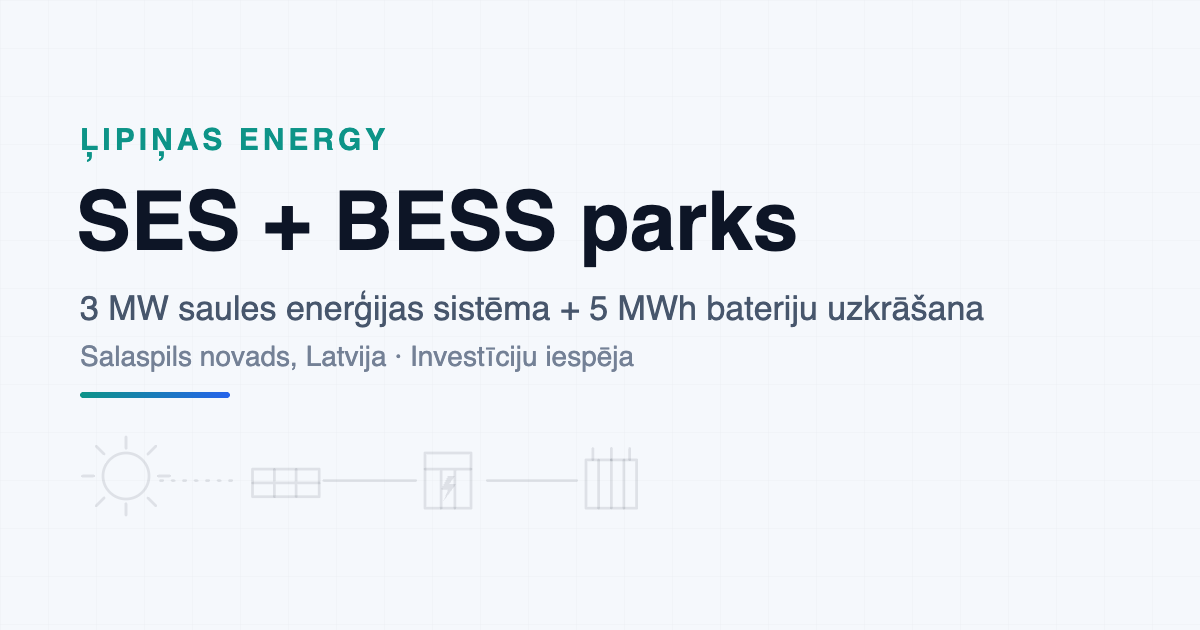
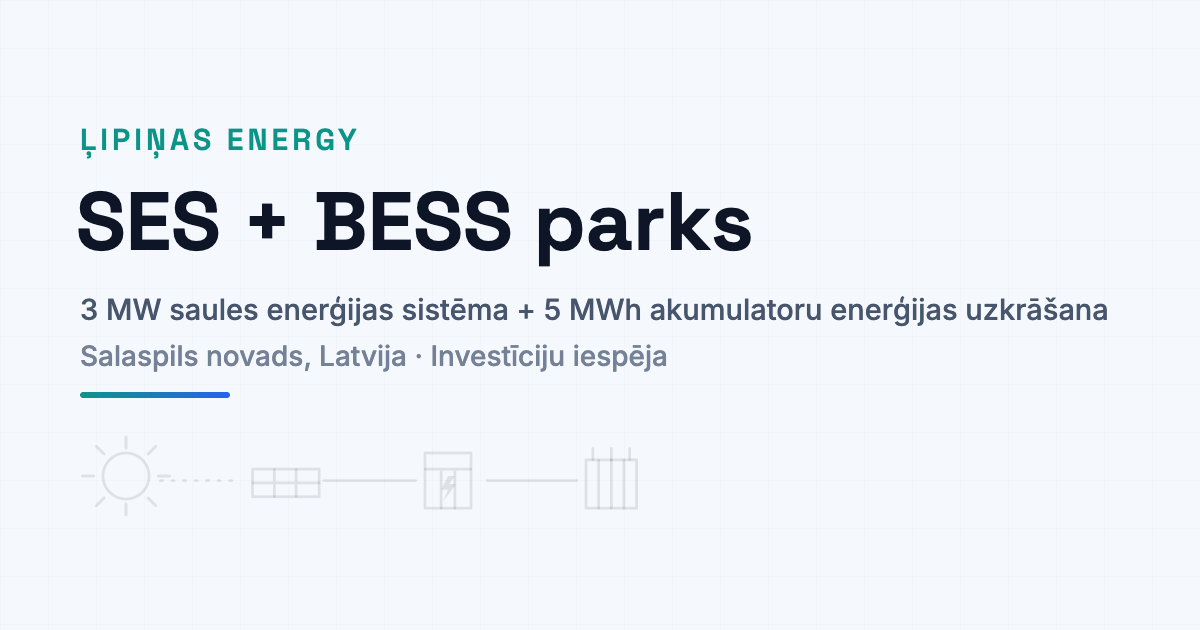
gp_lead LV statiskais = vārdnīca; kirilicas fonts; spec vērtības pēc valodas; og-cover termins
- LV gp_lead statiskais HTML saskaņots ar I18N (vārdnīca noteicošā)
- Space Grotesk (bez kirilicas) font-stack: 'Space Grotesk','Inter',sans-serif (index.html, privacy.html);
  RU lapā vairs nav Helvetica/Times rezerves fontu
- build.py SPEC: spec/gp vērtības pēc valodas — EN decimālpunkts un „4,304”/„3,077 kW”;
  RU „3 МВт (пик)”, „МВт·ч”, „га”, „кВт”, „мм”; LV/DE/RU tūkstošu atdalītājs ar U+00A0; skaitļi nemainīti
- og-cover.svg/png: „bateriju uzkrāšana” → „akumulatoru enerģijas uzkrāšana” (29 px, ietilpst);
  PNG pārzīmēts ar headless Chrome un vietnes self-host fontiem
- Helvija lūgums 2026-10-07; python3 build.py

Changed region(s): [[0.0617, 0.4524, 0.925, 0.6032], [0.0617, 0.3016, 0.6783, 0.4222], [0.0617, 0.181, 0.3392, 0.2413]]

diff --git a/ru/index.html b/ru/index.html
@@ -160,7 +160,7 @@
   *{box-sizing:border-box;margin:0;padding:0}
   html{scroll-behavior:smooth}
   body{font-family:'Inter',system-ui,sans-serif;background:var(--bg);color:var(--ink);line-height:1.6;-webkit-font-smoothing:antialiased;overflow-x:hidden}
-  h1,h2,h3,.stat-num{font-family:'Space Grotesk',sans-serif;letter-spacing:-.01em;line-height:1.1}
+  h1,h2,h3,.stat-num{font-family:'Space Grotesk','Inter',sans-serif;letter-spacing:-.01em;line-height:1.1}
   a{color:inherit;text-decoration:none}
   .wrap{max-width:var(--maxw);margin:0 auto;padding:0 24px}
   .accent{color:var(--acc)}.accent-2{color:var(--acc-2)}
@@ -178,7 +178,7 @@
 
   nav{position:sticky;top:0;z-index:1000;backdrop-filter:blur(14px);background:rgba(245,248,252,.82);border-bottom:1px solid var(--panel-brd)}
   nav .wrap{display:flex;align-items:center;justify-content:space-between;height:64px;gap:16px}
-  .brand{display:flex;align-items:center;gap:10px;font-family:'Space Grotesk';font-weight:600;font-size:15px;white-space:nowrap}
+  .brand{display:flex;align-items:center;gap:10px;font-family:'Space Grotesk','Inter',sans-serif;font-weight:600;font-size:15px;white-space:nowrap}
   .brand .dot{width:10px;height:10px;border-radius:50%;background:var(--acc);box-shadow:0 0 12px var(--acc)}
   .nav-links{display:flex;gap:26px;font-size:14px;color:var(--muted)}
   .nav-links a:hover{color:var(--ink)}
@@ -201,7 +201,7 @@
   /* Enerģijas plūsmas josla (gaiša) */
   .story{position:relative;z-index:2;width:100%;background:linear-gradient(180deg,#f5f8fc,#e7edf6);border-top:1px solid #d6ddeb;border-bottom:1px solid #d6ddeb;margin-top:52px;padding:22px 0 18px;overflow:hidden}
   .story .wrap{position:relative;z-index:2}
-  .flow-title{font-family:'Space Grotesk',sans-serif;font-weight:600;color:#0f1b3a;font-size:13px;letter-spacing:.08em;text-transform:uppercase;margin-bottom:8px;text-align:center;opacity:.7}
+  .flow-title{font-family:'Space Grotesk','Inter',sans-serif;font-weight:600;color:#0f1b3a;font-size:13px;letter-spacing:.08em;text-transform:uppercase;margin-bottom:8px;text-align:center;opacity:.7}
   .flow-svg{width:100%;height:auto;display:block;max-width:1040px;margin:0 auto}
   .flow-svg text{font-family:'Inter',sans-serif;font-weight:600;font-size:15px;fill:#0f1b3a}
   @media(max-width:760px){.flow-svg text{font-size:19px}.flow-title{font-size:12px}}
@@ -250,11 +250,11 @@
   .spec-row{display:flex;justify-content:space-between;gap:16px;padding:16px 24px;border-bottom:1px solid var(--panel-brd);font-size:15px}
   .spec-row:last-child{border-bottom:0}
   .spec-row span{color:var(--muted)}
-  .spec-row b{font-family:'Space Grotesk';font-weight:600;font-size:16px;text-align:right}
+  .spec-row b{font-family:'Space Grotesk','Inter',sans-serif;font-weight:600;font-size:16px;text-align:right}
 
   .fin{border:1px solid var(--panel-brd);border-radius:22px;background:linear-gradient(160deg,rgba(62,224,138,.06),rgba(56,189,248,.05));padding:46px;text-align:center;overflow:hidden}
   .fin-grid{display:flex;justify-content:center;gap:20px;margin:32px 0 22px}
-  .fin-item .n{font-family:'Space Grotesk';font-size:30px;font-weight:600;color:var(--acc)}
+  .fin-item .n{font-family:'Space Grotesk','Inter',sans-serif;font-size:30px;font-weight:600;color:var(--acc)}
   .fin-item .l{font-size:13px;color:var(--faint);margin-top:4px}
   @media(max-width:760px){.fin-grid{gap:16px}.fin{padding:32px 22px}}
   .finnote{font-size:13px;color:var(--faint);margin-bottom:20px}
@@ -272,7 +272,7 @@
   @media(max-width:860px){.map-wrap{grid-template-columns:1fr}}
   .map-facts{border:1px solid var(--panel-brd);border-radius:var(--radius);background:var(--panel);padding:26px;display:flex;flex-direction:column;justify-content:center;gap:18px}
   .map-fact .k{font-size:12px;letter-spacing:.1em;text-transform:uppercase;color:var(--faint)}
-  .map-fact .v{font-family:'Space Grotesk';font-weight:600;font-size:17px;margin-top:3px}
+  .map-fact .v{font-family:'Space Grotesk','Inter',sans-serif;font-weight:600;font-size:17px;margin-top:3px}
 
   .timeline{display:grid;grid-template-columns:repeat(5,1fr);gap:0}
   .step{padding:24px 20px 0;position:relative;min-width:0;overflow-wrap:break-word;hyphens:auto}
@@ -310,7 +310,7 @@
   .gp-src{font-size:12px;color:var(--faint);margin-top:6px;text-align:right}
   .gp-grid{display:grid;grid-template-columns:1fr 1fr;gap:24px;margin-top:24px;align-items:start}
   @media(max-width:860px){.gp-grid{grid-template-columns:1fr}}
-  .gp-h3{font-family:'Space Grotesk',sans-serif;font-size:18px;font-weight:600;margin-bottom:12px}
+  .gp-h3{font-family:'Space Grotesk','Inter',sans-serif;font-size:18px;font-weight:600;margin-bottom:12px}
   .gp-card{border:1px solid var(--panel-brd);border-radius:var(--radius);background:var(--panel);padding:24px 26px}
   .gp-card p{color:var(--muted);font-size:15px}
   .gp-card ul{margin:10px 0 0 18px;color:var(--ink);font-size:15px}
@@ -480,12 +480,12 @@
       </div>
     </div>
     <div class="spec">
-      <div class="spec-row"><span data-i18n="spec_pv_cap">Установленная мощность СЭС</span><b>3 MWp</b></div>
-      <div class="spec-row"><span data-i18n="spec_bess_cap">Ёмкость BESS</span><b>5 MWh</b></div>
-      <div class="spec-row"><span data-i18n="spec_grid_shared">Общая выдача в сеть (СЭС + BESS)</span><b>2,5&nbsp;MW</b></div>
+      <div class="spec-row"><span data-i18n="spec_pv_cap">Установленная мощность СЭС</span><b>3 МВт (пик)</b></div>
+      <div class="spec-row"><span data-i18n="spec_bess_cap">Ёмкость BESS</span><b>5 МВт·ч</b></div>
+      <div class="spec-row"><span data-i18n="spec_grid_shared">Общая выдача в сеть (СЭС + BESS)</span><b>2,5 МВт</b></div>
       <div class="spec-row"><span data-i18n="spec_eff">КПД накопителя</span><b data-i18n="spec_eff_v">90% round-trip</b></div>
-      <div class="spec-row"><span data-i18n="spec_avail">Доступная ёмкость</span><b>4,5 MWh</b></div>
-      <div class="spec-row"><span data-i18n="spec_area">Площадь участка</span><b>4,2 ha</b></div>
+      <div class="spec-row"><span data-i18n="spec_avail">Доступная ёмкость</span><b>4,5 МВт·ч</b></div>
+      <div class="spec-row"><span data-i18n="spec_area">Площадь участка</span><b>4,2 га</b></div>
       <div class="spec-row"><span data-i18n="spec_loc">Расположение</span><b data-i18n="spec_loc_v">Саласпилсская вол.</b></div>
     </div>
   </div>
@@ -600,9 +600,9 @@
       <div>
         <h3 class="gp-h3" data-i18n="gp_specs_h">Технические данные</h3>
         <div class="spec">
-          <div class="spec-row"><span data-i18n="gp_s2">Количество модулей</span><b>4 304</b></div>
-          <div class="spec-row"><span data-i18n="gp_s3">Мощность PV (DC)</span><b>3 077 kW</b></div>
-          <div class="spec-row"><span data-i18n="gp_s4">Размер модуля</span><b>2384 × 1303 mm</b></div>
+          <div class="spec-row"><span data-i18n="gp_s2">Количество модулей</span><b>4 304</b></div>
+          <div class="spec-row"><span data-i18n="gp_s3">Мощность PV (DC)</span><b>3 077 кВт</b></div>
+          <div class="spec-row"><span data-i18n="gp_s4">Размер модуля</span><b>2384 × 1303 мм</b></div>
           <div class="spec-row"><span data-i18n="gp_s5">Конфигурация трекеров</span><b>98×40 · 12×32 PV</b></div>
           <div class="spec-row"><span data-i18n="gp_s6">Ориентация</span><b data-i18n="gp_s6_v">Восток–запад</b></div>
         </div>

diff --git a/index.html b/index.html
@@ -125,7 +125,7 @@
   *{box-sizing:border-box;margin:0;padding:0}
   html{scroll-behavior:smooth}
   body{font-family:'Inter',system-ui,sans-serif;background:var(--bg);color:var(--ink);line-height:1.6;-webkit-font-smoothing:antialiased;overflow-x:hidden}
-  h1,h2,h3,.stat-num{font-family:'Space Grotesk',sans-serif;letter-spacing:-.01em;line-height:1.1}
+  h1,h2,h3,.stat-num{font-family:'Space Grotesk','Inter',sans-serif;letter-spacing:-.01em;line-height:1.1}
   a{color:inherit;text-decoration:none}
   .wrap{max-width:var(--maxw);margin:0 auto;padding:0 24px}
   .accent{color:var(--acc)}.accent-2{color:var(--acc-2)}
@@ -143,7 +143,7 @@
 
   nav{position:sticky;top:0;z-index:1000;backdrop-filter:blur(14px);background:rgba(245,248,252,.82);border-bottom:1px solid var(--panel-brd)}
   nav .wrap{display:flex;align-items:center;justify-content:space-between;height:64px;gap:16px}
-  .brand{display:flex;align-items:center;gap:10px;font-family:'Space Grotesk';font-weight:600;font-size:15px;white-space:nowrap}
+  .brand{display:flex;align-items:center;gap:10px;font-family:'Space Grotesk','Inter',sans-serif;font-weight:600;font-size:15px;white-space:nowrap}
   .brand .dot{width:10px;height:10px;border-radius:50%;background:var(--acc);box-shadow:0 0 12px var(--acc)}
   .nav-links{display:flex;gap:26px;font-size:14px;color:var(--muted)}
   .nav-links a:hover{color:var(--ink)}
@@ -166,7 +166,7 @@
   /* Enerģijas plūsmas josla (gaiša) */
   .story{position:relative;z-index:2;width:100%;background:linear-gradient(180deg,#f5f8fc,#e7edf6);border-top:1px solid #d6ddeb;border-bottom:1px solid #d6ddeb;margin-top:52px;padding:22px 0 18px;overflow:hidden}
   .story .wrap{position:relative;z-index:2}
-  .flow-title{font-family:'Space Grotesk',sans-serif;font-weight:600;color:#0f1b3a;font-size:13px;letter-spacing:.08em;text-transform:uppercase;margin-bottom:8px;text-align:center;opacity:.7}
+  .flow-title{font-family:'Space Grotesk','Inter',sans-serif;font-weight:600;color:#0f1b3a;font-size:13px;letter-spacing:.08em;text-transform:uppercase;margin-bottom:8px;text-align:center;opacity:.7}
   .flow-svg{width:100%;height:auto;display:block;max-width:1040px;margin:0 auto}
   .flow-svg text{font-family:'Inter',sans-serif;font-weight:600;font-size:15px;fill:#0f1b3a}
   @media(max-width:760px){.flow-svg text{font-size:19px}.flow-title{font-size:12px}}
@@ -215,11 +215,11 @@
   .spec-row{display:flex;justify-content:space-between;gap:16px;padding:16px 24px;border-bottom:1px solid var(--panel-brd);font-size:15px}
   .spec-row:last-child{border-bottom:0}
   .spec-row span{color:var(--muted)}
-  .spec-row b{font-family:'Space Grotesk';font-weight:600;font-size:16px;text-align:right}
+  .spec-row b{font-family:'Space Grotesk','Inter',sans-serif;font-weight:600;font-size:16px;text-align:right}
 
   .fin{border:1px solid var(--panel-brd);border-radius:22px;background:linear-gradient(160deg,rgba(62,224,138,.06),rgba(56,189,248,.05));padding:46px;text-align:center;overflow:hidden}
   .fin-grid{display:flex;justify-content:center;gap:20px;margin:32px 0 22px}
-  .fin-item .n{font-family:'Space Grotesk';font-size:30px;font-weight:600;color:var(--acc)}
+  .fin-item .n{font-family:'Space Grotesk','Inter',sans-serif;font-size:30px;font-weight:600;color:var(--acc)}
   .fin-item .l{font-size:13px;color:var(--faint);margin-top:4px}
   @media(max-width:760px){.fin-grid{gap:16px}.fin{padding:32px 22px}}
   .finnote{font-size:13px;color:var(--faint);margin-bottom:20px}
@@ -237,7 +237,7 @@
   @media(max-width:860px){.map-wrap{grid-template-columns:1fr}}
   .map-facts{border:1px solid var(--panel-brd);border-radius:var(--radius);background:var(--panel);padding:26px;display:flex;flex-direction:column;justify-content:center;gap:18px}
   .map-fact .k{font-size:12px;letter-spacing:.1em;text-transform:uppercase;color:var(--faint)}
-  .map-fact .v{font-family:'Space Grotesk';font-weight:600;font-size:17px;margin-top:3px}
+  .map-fact .v{font-family:'Space Grotesk','Inter',sans-serif;font-weight:600;font-size:17px;margin-top:3px}
 
   .timeline{display:grid;grid-template-columns:repeat(5,1fr);gap:0}
   .step{padding:24px 20px 0;position:relative;min-width:0;overflow-wrap:break-word;hyphens:auto}
@@ -275,7 +275,7 @@
   .gp-src{font-size:12px;color:var(--faint);margin-top:6px;text-align:right}
   .gp-grid{display:grid;grid-template-columns:1fr 1fr;gap:24px;margin-top:24px;align-items:start}
   @media(max-width:860px){.gp-grid{grid-template-columns:1fr}}
-  .gp-h3{font-family:'Space Grotesk',sans-serif;font-size:18px;font-weight:600;margin-bottom:12px}
+  .gp-h3{font-family:'Space Grotesk','Inter',sans-serif;font-size:18px;font-weight:600;margin-bottom:12px}
   .gp-card{border:1px solid var(--panel-brd);border-radius:var(--radius);background:var(--panel);padding:24px 26px}
   .gp-card p{color:var(--muted);font-size:15px}
   .gp-card ul{margin:10px 0 0 18px;color:var(--ink);font-size:15px}
@@ -447,7 +447,7 @@
     <div class="spec">
       <div class="spec-row"><span data-i18n="spec_pv_cap">PV uzstādītā jauda</span><b>3 MWp</b></div>
       <div class="spec-row"><span data-i18n="spec_bess_cap">BESS ietilpība</span><b>5 MWh</b></div>
-      <div class="spec-row"><span data-i18n="spec_grid_shared">Kopīgā jauda tīklā (PV + BESS)</span><b>2,5&nbsp;MW</b></div>
+      <div class="spec-row"><span data-i18n="spec_grid_shared">Kopīgā jauda tīklā (PV + BESS)</span><b>2,5 MW</b></div>
       <div class="spec-row"><span data-i18n="spec_eff">Akumulatora efektivitāte</span><b data-i18n="spec_eff_v">90% round-trip</b></div>
       <div class="spec-row"><span data-i18n="spec_avail">Pieejamā ietilpība</span><b>4,5 MWh</b></div>
       <div class="spec-row"><span data-i18n="spec_area">Zemes platība</span><b>4,2 ha</b></div>
@@ -504,7 +504,7 @@
   <div class="wrap">
     <div class="eyebrow" data-i18n="gp_eyebrow">Situācijas plāns</div>
     <h2 data-i18n="gp_h2">Izkārtojums un attīstības potenciāls</h2>
-    <p class="sec-lead" data-i18n="gp_lead">Vienkāršots situācijas plāns. SES un BESS aizņem daļu teritorijas, bet ~2 ha paliek brīvi turpmākai attīstībai.</p>
+    <p class="sec-lead" data-i18n="gp_lead">Vienkāršots situācijas plāns. SES un BESS aizņem daļu teritorijas; atlikušajos ~2 ha iespējama turpmāka attīstība virzienos, kuriem nepieciešama lēta elektroenerģija — datu centrs, ūdeņraža ražošana.</p>
     <div class="gp-map">
       <svg class="gp-svg" viewBox="0 0 770 640" fill="none" aria-hidden="true">
         <defs>
@@ -565,9 +565,9 @@
       <div>
         <h3 class="gp-h3" data-i18n="gp_specs_h">Tehniskie dati</h3>
         <div class="spec">
-          <div class="spec-row"><span data-i18n="gp_s2">Moduļu skaits</span><b>4 304</b></div>
-          <div class="spec-row"><span data-i18n="gp_s3">PV jauda (DC)</span><b>3 077 kW</b></div>
-          <div class="spec-row"><span data-i18n="gp_s4">Moduļa izmērs</span><b>2384 × 1303 mm</b></div>
+          <div class="spec-row"><span data-i18n="gp_s2">Moduļu skaits</span><b>4 304</b></div>
+          <div class="spec-row"><span data-i18n="gp_s3">PV jauda (DC)</span><b>3 077 kW</b></div>
+          <div class="spec-row"><span data-i18n="gp_s4">Moduļa izmērs</span><b>2384 × 1303 mm</b></div>
           <div class="spec-row"><span data-i18n="gp_s5">Trekeru konfigurācija</span><b>98×40 · 12×32 PV</b></div>
           <div class="spec-row"><span data-i18n="gp_s6">Orientācija</span><b data-i18n="gp_s6_v">Austrumi–rietumi</b></div>
         </div>

diff --git a/en/index.html b/en/index.html
@@ -160,7 +160,7 @@
   *{box-sizing:border-box;margin:0;padding:0}
   html{scroll-behavior:smooth}
   body{font-family:'Inter',system-ui,sans-serif;background:var(--bg);color:var(--ink);line-height:1.6;-webkit-font-smoothing:antialiased;overflow-x:hidden}
-  h1,h2,h3,.stat-num{font-family:'Space Grotesk',sans-serif;letter-spacing:-.01em;line-height:1.1}
+  h1,h2,h3,.stat-num{font-family:'Space Grotesk','Inter',sans-serif;letter-spacing:-.01em;line-height:1.1}
   a{color:inherit;text-decoration:none}
   .wrap{max-width:var(--maxw);margin:0 auto;padding:0 24px}
   .accent{color:var(--acc)}.accent-2{color:var(--acc-2)}
@@ -178,7 +178,7 @@
 
   nav{position:sticky;top:0;z-index:1000;backdrop-filter:blur(14px);background:rgba(245,248,252,.82);border-bottom:1px solid var(--panel-brd)}
   nav .wrap{display:flex;align-items:center;justify-content:space-between;height:64px;gap:16px}
-  .brand{display:flex;align-items:center;gap:10px;font-family:'Space Grotesk';font-weight:600;font-size:15px;white-space:nowrap}
+  .brand{display:flex;align-items:center;gap:10px;font-family:'Space Grotesk','Inter',sans-serif;font-weight:600;font-size:15px;white-space:nowrap}
   .brand .dot{width:10px;height:10px;border-radius:50%;background:var(--acc);box-shadow:0 0 12px var(--acc)}
   .nav-links{display:flex;gap:26px;font-size:14px;color:var(--muted)}
   .nav-links a:hover{color:var(--ink)}
@@ -201,7 +201,7 @@
   /* Enerģijas plūsmas josla (gaiša) */
   .story{position:relative;z-index:2;width:100%;background:linear-gradient(180deg,#f5f8fc,#e7edf6);border-top:1px solid #d6ddeb;border-bottom:1px solid #d6ddeb;margin-top:52px;padding:22px 0 18px;overflow:hidden}
   .story .wrap{position:relative;z-index:2}
-  .flow-title{font-family:'Space Grotesk',sans-serif;font-weight:600;color:#0f1b3a;font-size:13px;letter-spacing:.08em;text-transform:uppercase;margin-bottom:8px;text-align:center;opacity:.7}
+  .flow-title{font-family:'Space Grotesk','Inter',sans-serif;font-weight:600;color:#0f1b3a;font-size:13px;letter-spacing:.08em;text-transform:uppercase;margin-bottom:8px;text-align:center;opacity:.7}
   .flow-svg{width:100%;height:auto;display:block;max-width:1040px;margin:0 auto}
   .flow-svg text{font-family:'Inter',sans-serif;font-weight:600;font-size:15px;fill:#0f1b3a}
   @media(max-width:760px){.flow-svg text{font-size:19px}.flow-title{font-size:12px}}
@@ -250,11 +250,11 @@
   .spec-row{display:flex;justify-content:space-between;gap:16px;padding:16px 24px;border-bottom:1px solid var(--panel-brd);font-size:15px}
   .spec-row:last-child{border-bottom:0}
   .spec-row span{color:var(--muted)}
-  .spec-row b{font-family:'Space Grotesk';font-weight:600;font-size:16px;text-align:right}
+  .spec-row b{font-family:'Space Grotesk','Inter',sans-serif;font-weight:600;font-size:16px;text-align:right}
 
   .fin{border:1px solid var(--panel-brd);border-radius:22px;background:linear-gradient(160deg,rgba(62,224,138,.06),rgba(56,189,248,.05));padding:46px;text-align:center;overflow:hidden}
   .fin-grid{display:flex;justify-content:center;gap:20px;margin:32px 0 22px}
-  .fin-item .n{font-family:'Space Grotesk';font-size:30px;font-weight:600;color:var(--acc)}
+  .fin-item .n{font-family:'Space Grotesk','Inter',sans-serif;font-size:30px;font-weight:600;color:var(--acc)}
   .fin-item .l{font-size:13px;color:var(--faint);margin-top:4px}
   @media(max-width:760px){.fin-grid{gap:16px}.fin{padding:32px 22px}}
   .finnote{font-size:13px;color:var(--faint);margin-bottom:20px}
@@ -272,7 +272,7 @@
   @media(max-width:860px){.map-wrap{grid-template-columns:1fr}}
   .map-facts{border:1px solid var(--panel-brd);border-radius:var(--radius);background:var(--panel);padding:26px;display:flex;flex-direction:column;justify-content:center;gap:18px}
   .map-fact .k{font-size:12px;letter-spacing:.1em;text-transform:uppercase;color:var(--faint)}
-  .map-fact .v{font-family:'Space Grotesk';font-weight:600;font-size:17px;margin-top:3px}
+  .map-fact .v{font-family:'Space Grotesk','Inter',sans-serif;font-weight:600;font-size:17px;margin-top:3px}
 
   .timeline{display:grid;grid-template-columns:repeat(5,1fr);gap:0}
   .step{padding:24px 20px 0;position:relative;min-width:0;overflow-wrap:break-word;hyphens:auto}
@@ -310,7 +310,7 @@
   .gp-src{font-size:12px;color:var(--faint);margin-top:6px;text-align:right}
   .gp-grid{display:grid;grid-template-columns:1fr 1fr;gap:24px;margin-top:24px;align-items:start}
   @media(max-width:860px){.gp-grid{grid-template-columns:1fr}}
-  .gp-h3{font-family:'Space Grotesk',sans-serif;font-size:18px;font-weight:600;margin-bottom:12px}
+  .gp-h3{font-family:'Space Grotesk','Inter',sans-serif;font-size:18px;font-weight:600;margin-bottom:12px}
   .gp-card{border:1px solid var(--panel-brd);border-radius:var(--radius);background:var(--panel);padding:24px 26px}
   .gp-card p{color:var(--muted);font-size:15px}
   .gp-card ul{margin:10px 0 0 18px;color:var(--ink);font-size:15px}
@@ -482,10 +482,10 @@
     <div class="spec">
       <div class="spec-row"><span data-i18n="spec_pv_cap">PV installed capacity</span><b>3 MWp</b></div>
       <div class="spec-row"><span data-i18n="spec_bess_cap">BESS capacity</span><b>5 MWh</b></div>
-      <div class="spec-row"><span data-i18n="spec_grid_shared">Shared grid export power (PV + BESS)</span><b>2,5&nbsp;MW</b></div>
+      <div class="spec-row"><span data-i18n="spec_grid_shared">Shared grid export power (PV + BESS)</span><b>2.5 MW</b></div>
       <div class="spec-row"><span data-i18n="spec_eff">Battery efficiency</span><b data-i18n="spec_eff_v">90% round-trip</b></div>
-      <div class="spec-row"><span data-i18n="spec_avail">Available capacity</span><b>4,5 MWh</b></div>
-      <div class="spec-row"><span data-i18n="spec_area">Land area</span><b>4,2 ha</b></div>
+      <div class="spec-row"><span data-i18n="spec_avail">Available capacity</span><b>4.5 MWh</b></div>
+      <div class="spec-row"><span data-i18n="spec_area">Land area</span><b>4.2 ha</b></div>
       <div class="spec-row"><span data-i18n="spec_loc">Location</span><b data-i18n="spec_loc_v">Salaspils parish</b></div>
     </div>
   </div>
@@ -600,9 +600,9 @@
       <div>
         <h3 class="gp-h3" data-i18n="gp_specs_h">Technical data</h3>
         <div class="spec">
-          <div class="spec-row"><span data-i18n="gp_s2">Number of modules</span><b>4 304</b></div>
-          <div class="spec-row"><span data-i18n="gp_s3">PV power (DC)</span><b>3 077 kW</b></div>
-          <div class="spec-row"><span data-i18n="gp_s4">Module size</span><b>2384 × 1303 mm</b></div>
+          <div class="spec-row"><span data-i18n="gp_s2">Number of modules</span><b>4,304</b></div>
+          <div class="spec-row"><span data-i18n="gp_s3">PV power (DC)</span><b>3,077 kW</b></div>
+          <div class="spec-row"><span data-i18n="gp_s4">Module size</span><b>2384 × 1303 mm</b></div>
           <div class="spec-row"><span data-i18n="gp_s5">Tracker configuration</span><b>98×40 · 12×32 PV</b></div>
           <div class="spec-row"><span data-i18n="gp_s6">Orientation</span><b data-i18n="gp_s6_v">East–West</b></div>
         </div>

diff --git a/de/index.html b/de/index.html
@@ -160,7 +160,7 @@
   *{box-sizing:border-box;margin:0;padding:0}
   html{scroll-behavior:smooth}
   body{font-family:'Inter',system-ui,sans-serif;background:var(--bg);color:var(--ink);line-height:1.6;-webkit-font-smoothing:antialiased;overflow-x:hidden}
-  h1,h2,h3,.stat-num{font-family:'Space Grotesk',sans-serif;letter-spacing:-.01em;line-height:1.1}
+  h1,h2,h3,.stat-num{font-family:'Space Grotesk','Inter',sans-serif;letter-spacing:-.01em;line-height:1.1}
   a{color:inherit;text-decoration:none}
   .wrap{max-width:var(--maxw);margin:0 auto;padding:0 24px}
   .accent{color:var(--acc)}.accent-2{color:var(--acc-2)}
@@ -178,7 +178,7 @@
 
   nav{position:sticky;top:0;z-index:1000;backdrop-filter:blur(14px);background:rgba(245,248,252,.82);border-bottom:1px solid var(--panel-brd)}
   nav .wrap{display:flex;align-items:center;justify-content:space-between;height:64px;gap:16px}
-  .brand{display:flex;align-items:center;gap:10px;font-family:'Space Grotesk';font-weight:600;font-size:15px;white-space:nowrap}
+  .brand{display:flex;align-items:center;gap:10px;font-family:'Space Grotesk','Inter',sans-serif;font-weight:600;font-size:15px;white-space:nowrap}
   .brand .dot{width:10px;height:10px;border-radius:50%;background:var(--acc);box-shadow:0 0 12px var(--acc)}
   .nav-links{display:flex;gap:26px;font-size:14px;color:var(--muted)}
   .nav-links a:hover{color:var(--ink)}
@@ -201,7 +201,7 @@
   /* Enerģijas plūsmas josla (gaiša) */
   .story{position:relative;z-index:2;width:100%;background:linear-gradient(180deg,#f5f8fc,#e7edf6);border-top:1px solid #d6ddeb;border-bottom:1px solid #d6ddeb;margin-top:52px;padding:22px 0 18px;overflow:hidden}
   .story .wrap{position:relative;z-index:2}
-  .flow-title{font-family:'Space Grotesk',sans-serif;font-weight:600;color:#0f1b3a;font-size:13px;letter-spacing:.08em;text-transform:uppercase;margin-bottom:8px;text-align:center;opacity:.7}
+  .flow-title{font-family:'Space Grotesk','Inter',sans-serif;font-weight:600;color:#0f1b3a;font-size:13px;letter-spacing:.08em;text-transform:uppercase;margin-bottom:8px;text-align:center;opacity:.7}
   .flow-svg{width:100%;height:auto;display:block;max-width:1040px;margin:0 auto}
   .flow-svg text{font-family:'Inter',sans-serif;font-weight:600;font-size:15px;fill:#0f1b3a}
   @media(max-width:760px){.flow-svg text{font-size:19px}.flow-title{font-size:12px}}
@@ -250,11 +250,11 @@
   .spec-row{display:flex;justify-content:space-between;gap:16px;padding:16px 24px;border-bottom:1px solid var(--panel-brd);font-size:15px}
   .spec-row:last-child{border-bottom:0}
   .spec-row span{color:var(--muted)}
-  .spec-row b{font-family:'Space Grotesk';font-weight:600;font-size:16px;text-align:right}
+  .spec-row b{font-family:'Space Grotesk','Inter',sans-serif;font-weight:600;font-size:16px;text-align:right}
 
   .fin{border:1px solid var(--panel-brd);border-radius:22px;background:linear-gradient(160deg,rgba(62,224,138,.06),rgba(56,189,248,.05));padding:46px;text-align:center;overflow:hidden}
   .fin-grid{display:flex;justify-content:center;gap:20px;margin:32px 0 22px}
-  .fin-item .n{font-family:'Space Grotesk';font-size:30px;font-weight:600;color:var(--acc)}
+  .fin-item .n{font-family:'Space Grotesk','Inter',sans-serif;font-size:30px;font-weight:600;color:var(--acc)}
   .fin-item .l{font-size:13px;color:var(--faint);margin-top:4px}
   @media(max-width:760px){.fin-grid{gap:16px}.fin{padding:32px 22px}}
   .finnote{font-size:13px;color:var(--faint);margin-bottom:20px}
@@ -272,7 +272,7 @@
   @media(max-width:860px){.map-wrap{grid-template-columns:1fr}}
   .map-facts{border:1px solid var(--panel-brd);border-radius:var(--radius);background:var(--panel);padding:26px;display:flex;flex-direction:column;justify-content:center;gap:18px}
   .map-fact .k{font-size:12px;letter-spacing:.1em;text-transform:uppercase;color:var(--faint)}
-  .map-fact .v{font-family:'Space Grotesk';font-weight:600;font-size:17px;margin-top:3px}
+  .map-fact .v{font-family:'Space Grotesk','Inter',sans-serif;font-weight:600;font-size:17px;margin-top:3px}
 
   .timeline{display:grid;grid-template-columns:repeat(5,1fr);gap:0}
   .step{padding:24px 20px 0;position:relative;min-width:0;overflow-wrap:break-word;hyphens:auto}
@@ -310,7 +310,7 @@
   .gp-src{font-size:12px;color:var(--faint);margin-top:6px;text-align:right}
   .gp-grid{display:grid;grid-template-columns:1fr 1fr;gap:24px;margin-top:24px;align-items:start}
   @media(max-width:860px){.gp-grid{grid-template-columns:1fr}}
-  .gp-h3{font-family:'Space Grotesk',sans-serif;font-size:18px;font-weight:600;margin-bottom:12px}
+  .gp-h3{font-family:'Space Grotesk','Inter',sans-serif;font-size:18px;font-weight:600;margin-bottom:12px}
   .gp-card{border:1px solid var(--panel-brd);border-radius:var(--radius);background:var(--panel);padding:24px 26px}
   .gp-card p{color:var(--muted);font-size:15px}
   .gp-card ul{margin:10px 0 0 18px;color:var(--ink);font-size:15px}
@@ -482,7 +482,7 @@
     <div class="spec">
       <div class="spec-row"><span data-i18n="spec_pv_cap">Installierte PV-Leistung</span><b>3 MWp</b></div>
       <div class="spec-row"><span data-i18n="spec_bess_cap">BESS-Kapazität</span><b>5 MWh</b></div>
-      <div class="spec-row"><span data-i18n="spec_grid_shared">Gemeinsame Netzeinspeiseleistung (PV + BESS)</span><b>2,5&nbsp;MW</b></div>
+      <div class="spec-row"><span data-i18n="spec_grid_shared">Gemeinsame Netzeinspeiseleistung (PV + BESS)</span><b>2,5 MW</b></div>
       <div class="spec-row"><span data-i18n="spec_eff">Batteriewirkungsgrad</span><b data-i18n="spec_eff_v">90 % Round-Trip</b></div>
       <div class="spec-row"><span data-i18n="spec_avail">Verfügbare Kapazität</span><b>4,5 MWh</b></div>
       <div class="spec-row"><span data-i18n="spec_area">Grundstücksfläche</span><b>4,2 ha</b></div>
@@ -600,9 +600,9 @@
       <div>
         <h3 class="gp-h3" data-i18n="gp_specs_h">Technische Daten</h3>
         <div class="spec">
-          <div class="spec-row"><span data-i18n="gp_s2">Anzahl der Module</span><b>4 304</b></div>
-          <div class="spec-row"><span data-i18n="gp_s3">PV-Leistung (DC)</span><b>3 077 kW</b></div>
-          <div class="spec-row"><span data-i18n="gp_s4">Modulgröße</span><b>2384 × 1303 mm</b></div>
+          <div class="spec-row"><span data-i18n="gp_s2">Anzahl der Module</span><b>4 304</b></div>
+          <div class="spec-row"><span data-i18n="gp_s3">PV-Leistung (DC)</span><b>3 077 kW</b></div>
+          <div class="spec-row"><span data-i18n="gp_s4">Modulgröße</span><b>2384 × 1303 mm</b></div>
           <div class="spec-row"><span data-i18n="gp_s5">Tracker-Konfiguration</span><b>98×40 · 12×32 PV</b></div>
           <div class="spec-row"><span data-i18n="gp_s6">Ausrichtung</span><b data-i18n="gp_s6_v">Ost–West</b></div>
         </div>

diff --git a/privacy.html b/privacy.html
@@ -19,10 +19,10 @@
   *{box-sizing:border-box;margin:0;padding:0}
   body{font-family:'Inter',system-ui,sans-serif;background:var(--bg);color:var(--ink);line-height:1.7;-webkit-font-smoothing:antialiased}
   a{color:var(--acc);text-decoration:none}a:hover{text-decoration:underline}
-  h1,h2{font-family:'Space Grotesk',sans-serif;letter-spacing:-.01em;line-height:1.15}
+  h1,h2{font-family:'Space Grotesk','Inter',sans-serif;letter-spacing:-.01em;line-height:1.15}
   nav{position:sticky;top:0;z-index:10;background:rgba(245,248,252,.85);backdrop-filter:blur(12px);border-bottom:1px solid var(--panel-brd)}
   nav .in{max-width:820px;margin:0 auto;padding:14px 24px;display:flex;align-items:center;justify-content:space-between;gap:16px}
-  .brand{display:flex;align-items:center;gap:9px;font-family:'Space Grotesk';font-weight:600;font-size:15px}
+  .brand{display:flex;align-items:center;gap:9px;font-family:'Space Grotesk','Inter',sans-serif;font-weight:600;font-size:15px}
   .brand .dot{width:9px;height:9px;border-radius:50%;background:var(--acc)}
   .lang{display:flex;gap:2px;border:1px solid var(--panel-brd);border-radius:999px;padding:3px;background:#fff}
   .lang button{background:none;border:0;color:var(--faint);font:600 12px 'Inter';padding:5px 10px;border-radius:999px;cursor:pointer}

diff --git a/build.py b/build.py
@@ -50,6 +50,19 @@ META = {
 }
 
 
+# Statiskās skaitļu vērtības pēc valodas (LV avots → valoda); decimālzīme, tūkstošu atdalītājs, mērvienības
+N = "\u00a0"
+SPEC = {
+    "en": [("3"+N+"MWp", "3"+N+"MWp"), ("5"+N+"MWh", "5"+N+"MWh"), ("2,5"+N+"MW", "2.5"+N+"MW"),
+           ("4,5"+N+"MWh", "4.5"+N+"MWh"), ("4,2"+N+"ha", "4.2"+N+"ha"), ("4"+N+"304", "4,304"),
+           ("3"+N+"077"+N+"kW", "3,077"+N+"kW"), ("2384 × 1303"+N+"mm", "2384 × 1303"+N+"mm")],
+    "de": [],
+    "ru": [("3"+N+"MWp", "3"+N+"МВт (пик)"), ("5"+N+"MWh", "5"+N+"МВт·ч"), ("2,5"+N+"MW", "2,5"+N+"МВт"),
+           ("4,5"+N+"MWh", "4,5"+N+"МВт·ч"), ("4,2"+N+"ha", "4,2"+N+"га"), ("4"+N+"304", "4"+N+"304"),
+           ("3"+N+"077"+N+"kW", "3"+N+"077"+N+"кВт"), ("2384 × 1303"+N+"mm", "2384 × 1303"+N+"мм")],
+}
+
+
 def load_i18n(src):
     js = re.search(r"const I18N = (\{.*?\n\});", src, re.S).group(1)
     out = subprocess.run(
@@ -98,6 +111,10 @@ def build(lang, src, I18N):
     # uzņēmuma nosaukums pēc valodas (legalName paliek reģistrētais LV nosaukums)
     lv_org = "SIA „STROIPERLIT-RIGA“"
     h = meta(h, "author", M["org"])
+    for old, new in SPEC[lang]:
+        old_b, new_b = "<b>%s</b>" % old, "<b>%s</b>" % new
+        assert h.count(old_b) == 1, old_b
+        h = h.replace(old_b, new_b)
     old = '<div class="n">~€2,3M</div><div class="l" data-i18n="fin_capex">'
     assert h.count(old) == 1, old
     h = h.replace(old, old.replace("~€2,3M", M["capex"]))
